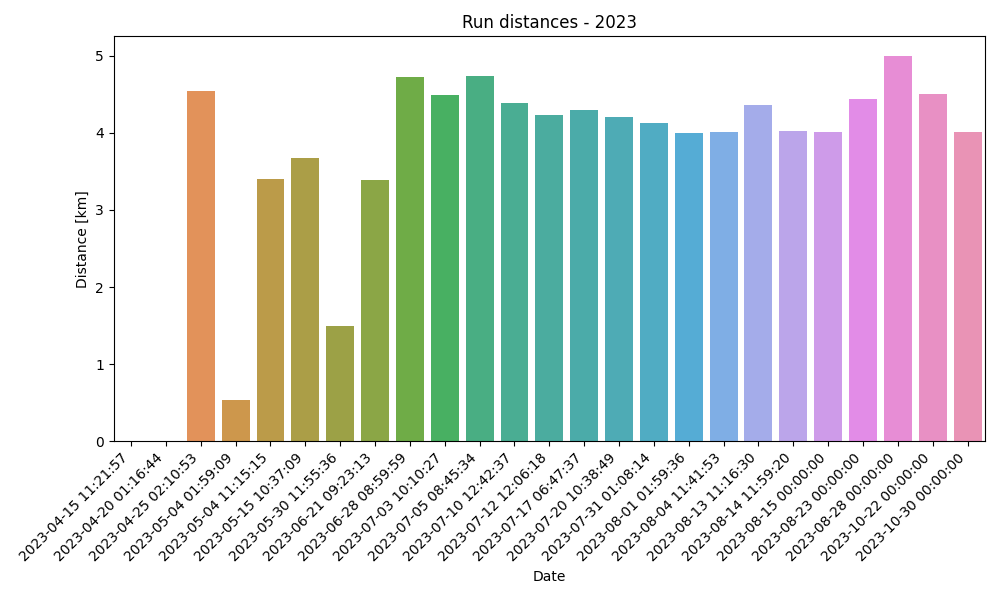
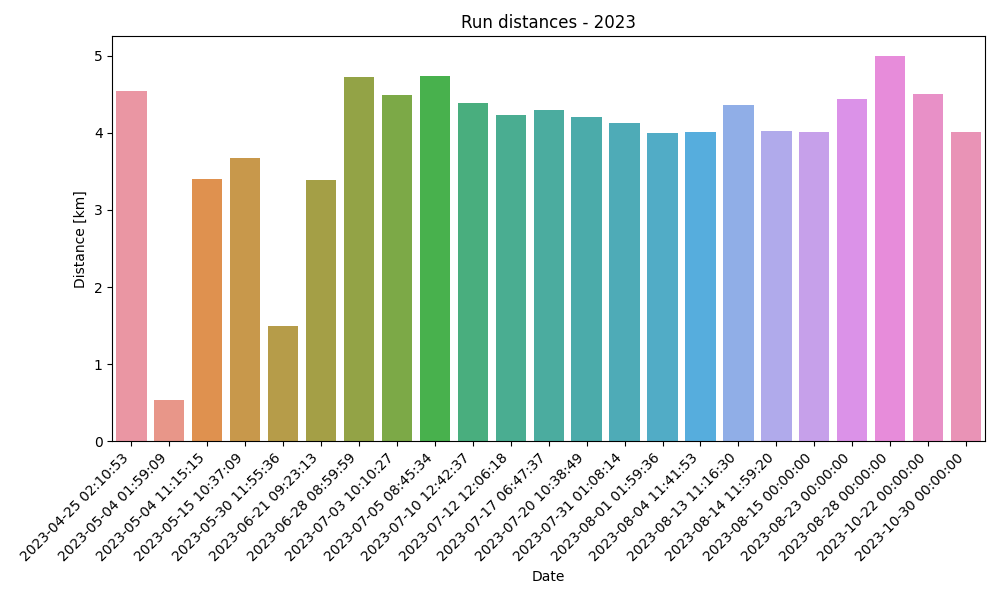
fix: filter out activities with zero distance

Changed region(s): [[0.0, 0.09, 0.961, 0.99], [0.465, 0.03, 0.651, 0.06], [0.093, 0.09, 0.124, 0.12]]

diff --git a/test/test_convert_data.py b/test/test_convert_data.py
@@ -1,0 +1,26 @@
+
+from src.convert_data import transform_data
+
+examples = [
+    'Run	Mon, 10/30/2023	Afternoon Run	18:57	4.01 km',
+    'Run	Sun, 10/22/2023	easy jog	23:43	4.50 km',
+    'Ride	Wed, 9/27/2023	Afternoon Ride	23:00	6.85 km',
+    ]
+
+
+def test_transform_data():
+    # TODO: parameterize and add all examples
+    example = examples[0]
+
+    activity_date = "Oct 30, 2023, 00:00:00 PM"
+    activity_type = "Run"
+    elapsed_time = "18:57"
+    distance = "4.01"
+
+    result = transform_data(example)
+
+    assert result[0] == activity_date
+    assert result[1] == activity_type
+    assert result[2] == elapsed_time
+    assert result[3] == distance
+

diff --git a/src/plot.py b/src/plot.py
@@ -16,6 +16,9 @@ def get_run_data(in_file, year, activity_type) -> pd.DataFrame:
         df["Activity Date"], format="%b %d, %Y, %H:%M:%S %p", errors="coerce"
     )
     df = df[df["Activity Date"].dt.year == year]
+
+    df = df[df["Distance"] != 0]
+
     df = df[
         # ["Activity Date", "Elapsed Time", "Distance", "Moving Time", "Average Speed"]
         ["Activity Date", "Elapsed Time", "Distance"]
